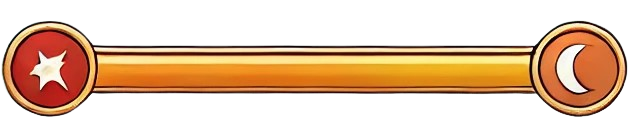
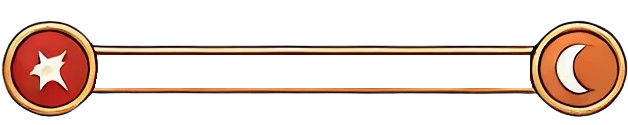
made functional stamina and health bars

Changed region(s): [[0.1513, 0.432, 0.8471, 0.72]]

diff --git a/C/StaminaBar.java b/C/StaminaBar.java
@@ -1,21 +1,21 @@
 package C;
 
 import java.awt.Color;
-import java.awt.Font;
 import java.awt.Graphics;
 import java.awt.Image;
+import java.awt.Font;
 
 import javax.imageio.ImageIO;
 import javax.swing.JLabel;
 
-public class HealthBar extends JLabel{
+public class StaminaBar extends JLabel{
     
     private Image bar;
     private Person person;
-    private static int[] POSITIONS_FOR_USER_BAR = new int[] {50 , 20};
-    private static int[] POSITIONS_FOR_FIGHTER_BAR = new int[] {1242 , 20};
+    private static int[] POSITIONS_FOR_USER_BAR = new int[] {100 , 120};
+    private static int[] POSITIONS_FOR_FIGHTER_BAR = new int[] {1292 , 120};
     private int[] positionsXY = new int[2];
-    public HealthBar(Person person)
+    public StaminaBar(Person person)
     {
         this.setBounds(0, 0, 1920, 300);
         this.setVisible(true);
@@ -24,18 +24,18 @@ public class HealthBar extends JLabel{
         if(person instanceof Fighter)
         {
             try {
-                this.bar = ImageIO.read(getClass().getResource("/graphs/bar2.png"));
+                this.bar = ImageIO.read(getClass().getResource("/graphs/staminaBar2.png"));
                 } catch (Exception e) {
-                    System.out.println("NO IMAGE FOR fighter bar!");
+                    System.out.println("NO IMAGE FOR stamina bar!");
                 }
             positionsXY[0] = POSITIONS_FOR_FIGHTER_BAR[0];
             positionsXY[1] = POSITIONS_FOR_FIGHTER_BAR[1];
         }
         else {
             try {
-                this.bar = ImageIO.read(getClass().getResource("/graphs/bar1.png"));
+                this.bar = ImageIO.read(getClass().getResource("/graphs/staminaBar1.png"));
                 } catch (Exception e) {
-                    System.out.println("NO IMAGE FOR user bar!");
+                    System.out.println("NO IMAGE FOR user stamina bar!");
                 }
                 positionsXY[0] = POSITIONS_FOR_USER_BAR[0];
                 positionsXY[1] = POSITIONS_FOR_USER_BAR[1];
@@ -44,10 +44,10 @@ public class HealthBar extends JLabel{
     @Override
     protected void paintComponent(Graphics g) {
         g.setColor((person instanceof Fighter) ? new Color(0x1355A9) : new Color(0xE37D3D));
-        g.fillRect(positionsXY[0] + 95, positionsXY[1] + 55, (int)(person.getHealth() * 4.38), 33);
+        g.fillRect(positionsXY[0] + 62, positionsXY[1] + 35, (int)(person.getStamina() * 2.78), 21);
         g.setColor(Color.white);
-        g.setFont(new Font("Impact", Font.PLAIN, 30));
-        g.drawString("HEALTH", positionsXY[0] + 95 + 25, positionsXY[1] + 55 + 28);
+        g.setFont(new Font("Impact", Font.PLAIN, 20));
+        g.drawString("STAMINA", positionsXY[0] + 95 - 20, positionsXY[1] + 55 - 3);
         g.drawImage(this.bar, positionsXY[0], positionsXY[1], null);
     }
 }

diff --git a/C/Fighter.java b/C/Fighter.java
@@ -8,11 +8,13 @@ public class Fighter extends Person{
     public static final int AMOUNT_OF_FIGHTERS = 10;
     private FighterPanel fighterPanel;
     private HealthBar healthBar;
+    protected StaminaBar staminaBar;
     public static Random random = new Random();
     public Fighter(int i)
     {
         this.fighterPanel = new FighterPanel(i, this);
         this.healthBar = new HealthBar(this);
+        this.staminaBar = new StaminaBar(this);
     }
     public Fighter()
     {
@@ -22,11 +24,16 @@ public class Fighter extends Person{
         if(random.nextBoolean())this.itemsList.add(new Leggings(random.nextInt(4)));
         if(random.nextBoolean())this.itemsList.add(new Armor(random.nextInt(4)));
         this.itemsList.add(new Sword(random.nextInt(4)));
+        this.staminaBar = new StaminaBar(this);
     }
     
     public FighterPanel getFighterPanel()
     {
         return this.fighterPanel;
+    }
+    public StaminaBar getStaminaBar()
+    {
+        return this.staminaBar;
     }
     public void moveTo(int x, int y)
     {

diff --git a/C/User.java b/C/User.java
@@ -7,6 +7,7 @@ public class User extends Person{
     private CharacterPanel charPanel;
     private HealthBar healthBar;
     private int coins;
+    protected StaminaBar staminaBar;
     public User()
     {
         theUser = this;
@@ -20,6 +21,7 @@ public class User extends Person{
         this.charPanel = CharacterPanel.getCharPanel();
         this.panel = this.charPanel;
         this.healthBar = new HealthBar(this);
+        this.staminaBar = new StaminaBar(this);
     }
     public void moveTo(int x, int y)
     {
@@ -40,6 +42,10 @@ public class User extends Person{
     public HealthBar getHealthBar()
     {
         return this.healthBar;
+    }
+    public StaminaBar getStaminaBar()
+    {
+        return this.staminaBar;
     }
     public int getCoins()
     {

diff --git a/Screens/FightScreen.java b/Screens/FightScreen.java
@@ -31,11 +31,13 @@ public class FightScreen extends JPanel{
         theFrame.removePrevPanelsAndLabels();
         this.add(CharacterPanel.getCharPanel());
         theFrame.add(user.getHealthBar());
+        theFrame.add(user.getStaminaBar());
         this.add(fighter.getFighterPanel());
         
         //fighter.resizeComp(300, 132);
         fighter.moveTo(1100, 500);
         theFrame.add(fighter.getHealthBar());
+        theFrame.add(fighter.getStaminaBar());
 
         JLabel moveForward = new JLabel();
         moveForward.setIcon(new ImageIcon("graphs/fight/moveForward.png"));

diff --git a/C/CharacterPanel.java b/C/CharacterPanel.java
@@ -56,7 +56,7 @@ public class CharacterPanel extends FighterPanel{
         {
             //item.setImage(this.person.currentPhoto);
             g.drawImage(item.getImage(), 0, 0, null);
-            System.out.println("DREW in CHARPANEL " + item + ", image: " + item.getImage());
+            //System.out.println("DREW in CHARPANEL " + item + ", image: " + item.getImage());
         }
         g.setColor(Color.WHITE);
         g.drawString("Character Image: " + currentPhoto, 100, 10);

diff --git a/C/FighterPanel.java b/C/FighterPanel.java
@@ -67,7 +67,7 @@ public class FighterPanel extends JPanel{
         {
             //item.setImage(this.person.currentPhoto);
             g.drawImage(item.getImage(), 0, 0, null);
-            System.out.println("DREW in CHARPANEL " + item + ", image: " + item.getImage());
+            //System.out.println("DREW in CHARPANEL " + item + ", image: " + item.getImage());
         }
         g.setColor(Color.WHITE);
         g.drawString("Character Image: " + currentPhoto, 100, 10);

diff --git a/C/Person.java b/C/Person.java
@@ -17,8 +17,13 @@ public class Person {
     public Person()
     {
         this.health = 100;
+        this.stamina = 100;
     }
     public int getHealth()
+    {
+        return this.health;
+    }
+    public int getStamina()
     {
         return this.health;
     }
